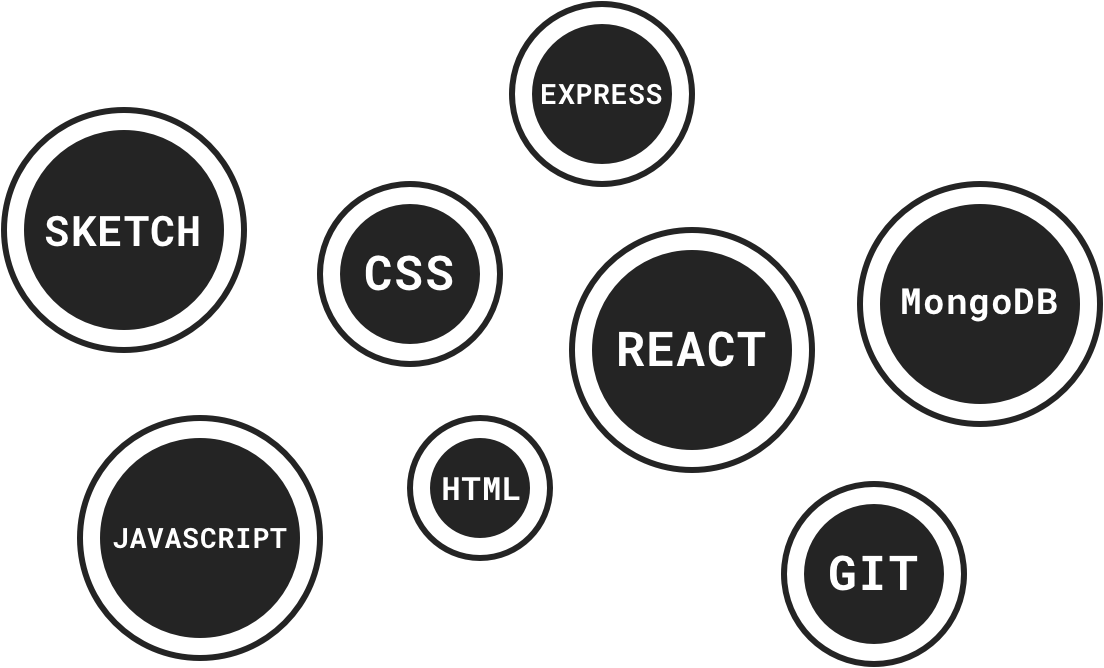
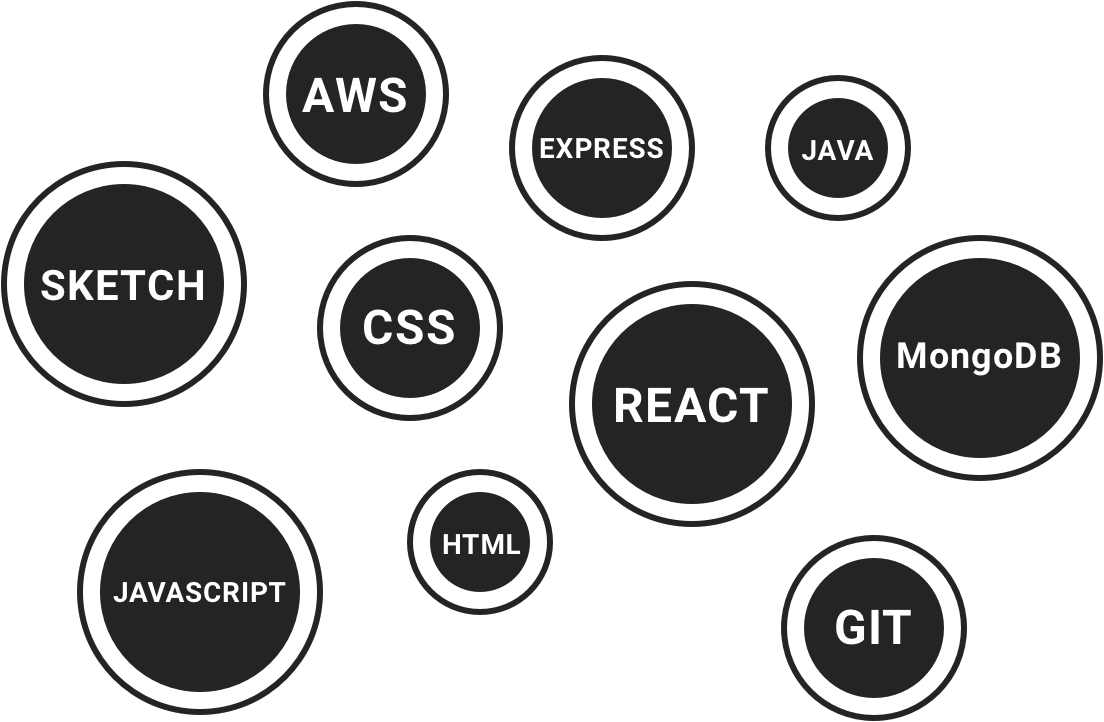
update deploy scripts and remove unused photos

diff --git a/portfolio.html b/portfolio.html
@@ -80,7 +80,7 @@
       <div>
         <a href="https://github.com/jacobguinther/Portfolio-Website" class="card">
           <div class="thumb"
-            style="background-image: url('./img/images/PortfolioSite2.png'); border-bottom: 1px solid #d3d3d3;"></div>
+            style="background-image: url('./img/images/PortfolioSite.png'); border-bottom: 1px solid #d3d3d3;"></div>
           <article>
             <h1 class="card--header">Portfolio Website</h1>
             <p><span class="">Tech Stack:</span>HTML CSS</p>

diff --git a/index.html b/index.html
@@ -55,7 +55,7 @@
   <div class="container no-bottom-padding">
     <div class="section-skills">
       <div data-aos="fade-up" data-aos-anchor-placement="top-bottom">
-        <img class="skills-bubbles" src="/img/images/skills-bubbles2.png" alt="">
+        <img class="skills-bubbles" src="/img/images/skills-bubbles.png" alt="">
       </div>
       <div data-aos="fade-left">
         <img class="monitor" src="/img/images/monitor.png" alt="computer-icon">
